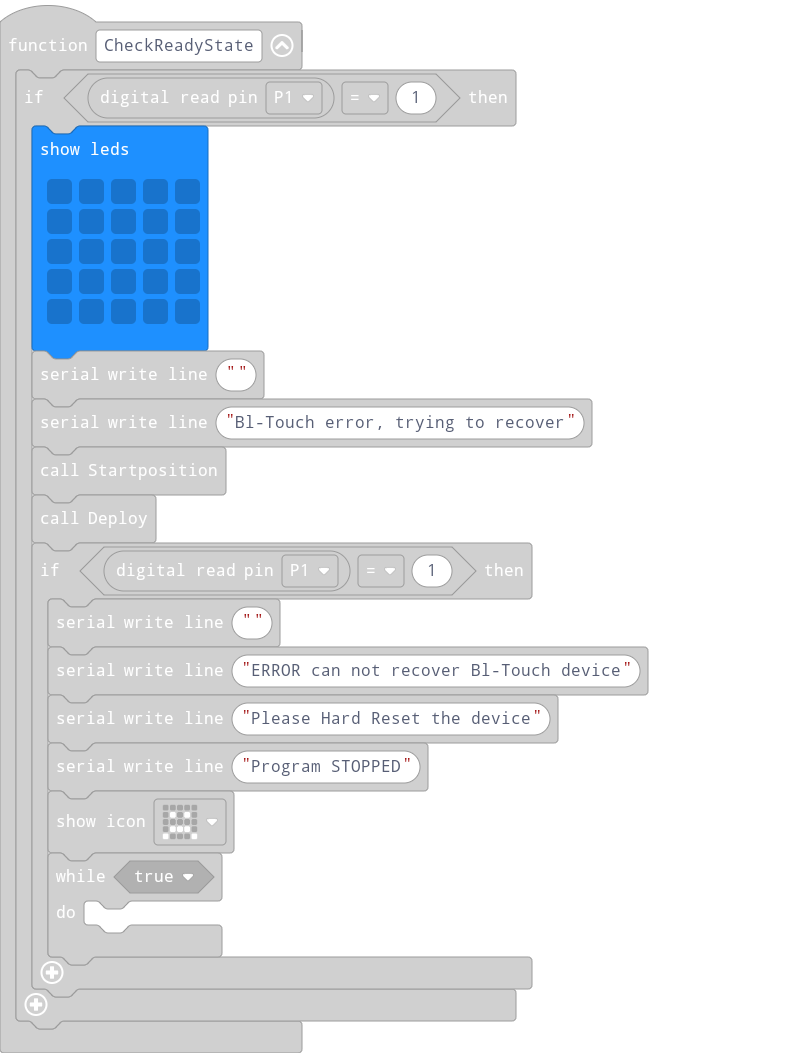
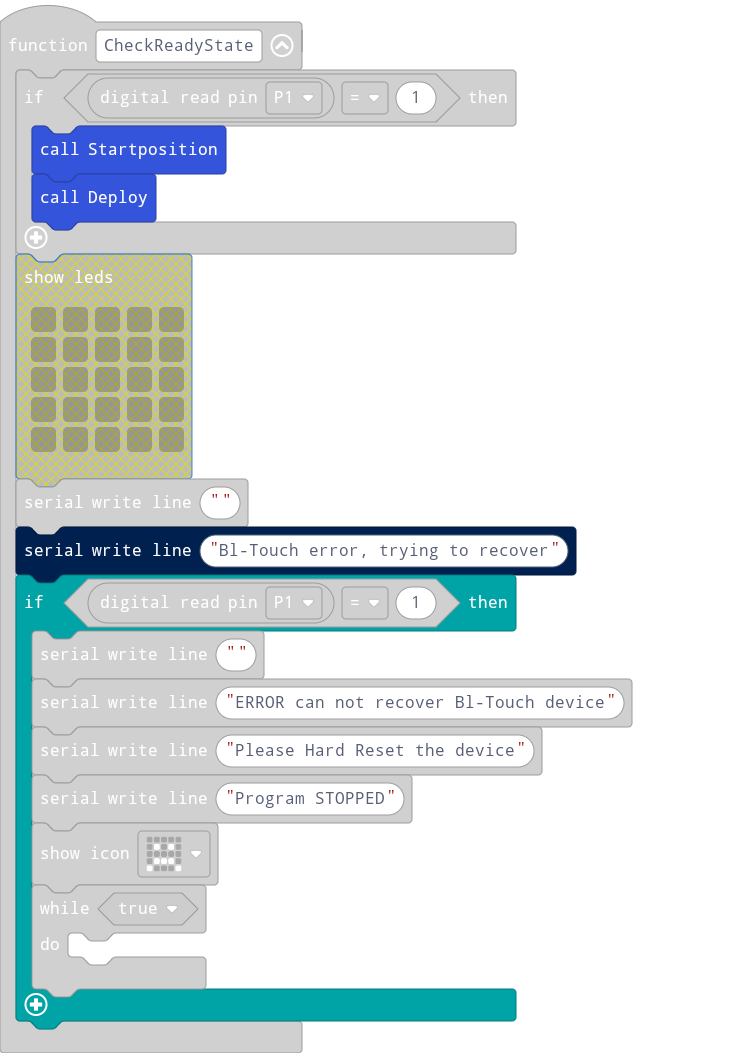
Check ready state repairex

Changed region(s): [[0.0, 0.0, 0.875, 1.0], [0.625, 0.0608, 0.7188, 0.1216]]

diff --git a/main.ts b/main.ts
@@ -17,17 +17,10 @@ function ShowNormal () {
 }
 function CheckReadyState () {
     if (pins.digitalReadPin(DigitalPin.P1) == 1) {
-        basic.showLeds(`
-            . . . . .
-            . . . . .
-            . . . . .
-            . . . . .
-            . . . . .
-            `)
-        serial.writeLine("")
-        serial.writeLine("Bl-Touch error, trying to recover")
         Startposition()
         Deploy()
+        serial.writeLine("")
+        serial.writeLine("Bl-Touch error, trying to recover")
         if (pins.digitalReadPin(DigitalPin.P1) == 1) {
             serial.writeLine("")
             serial.writeLine("ERROR can not recover Bl-Touch device")
